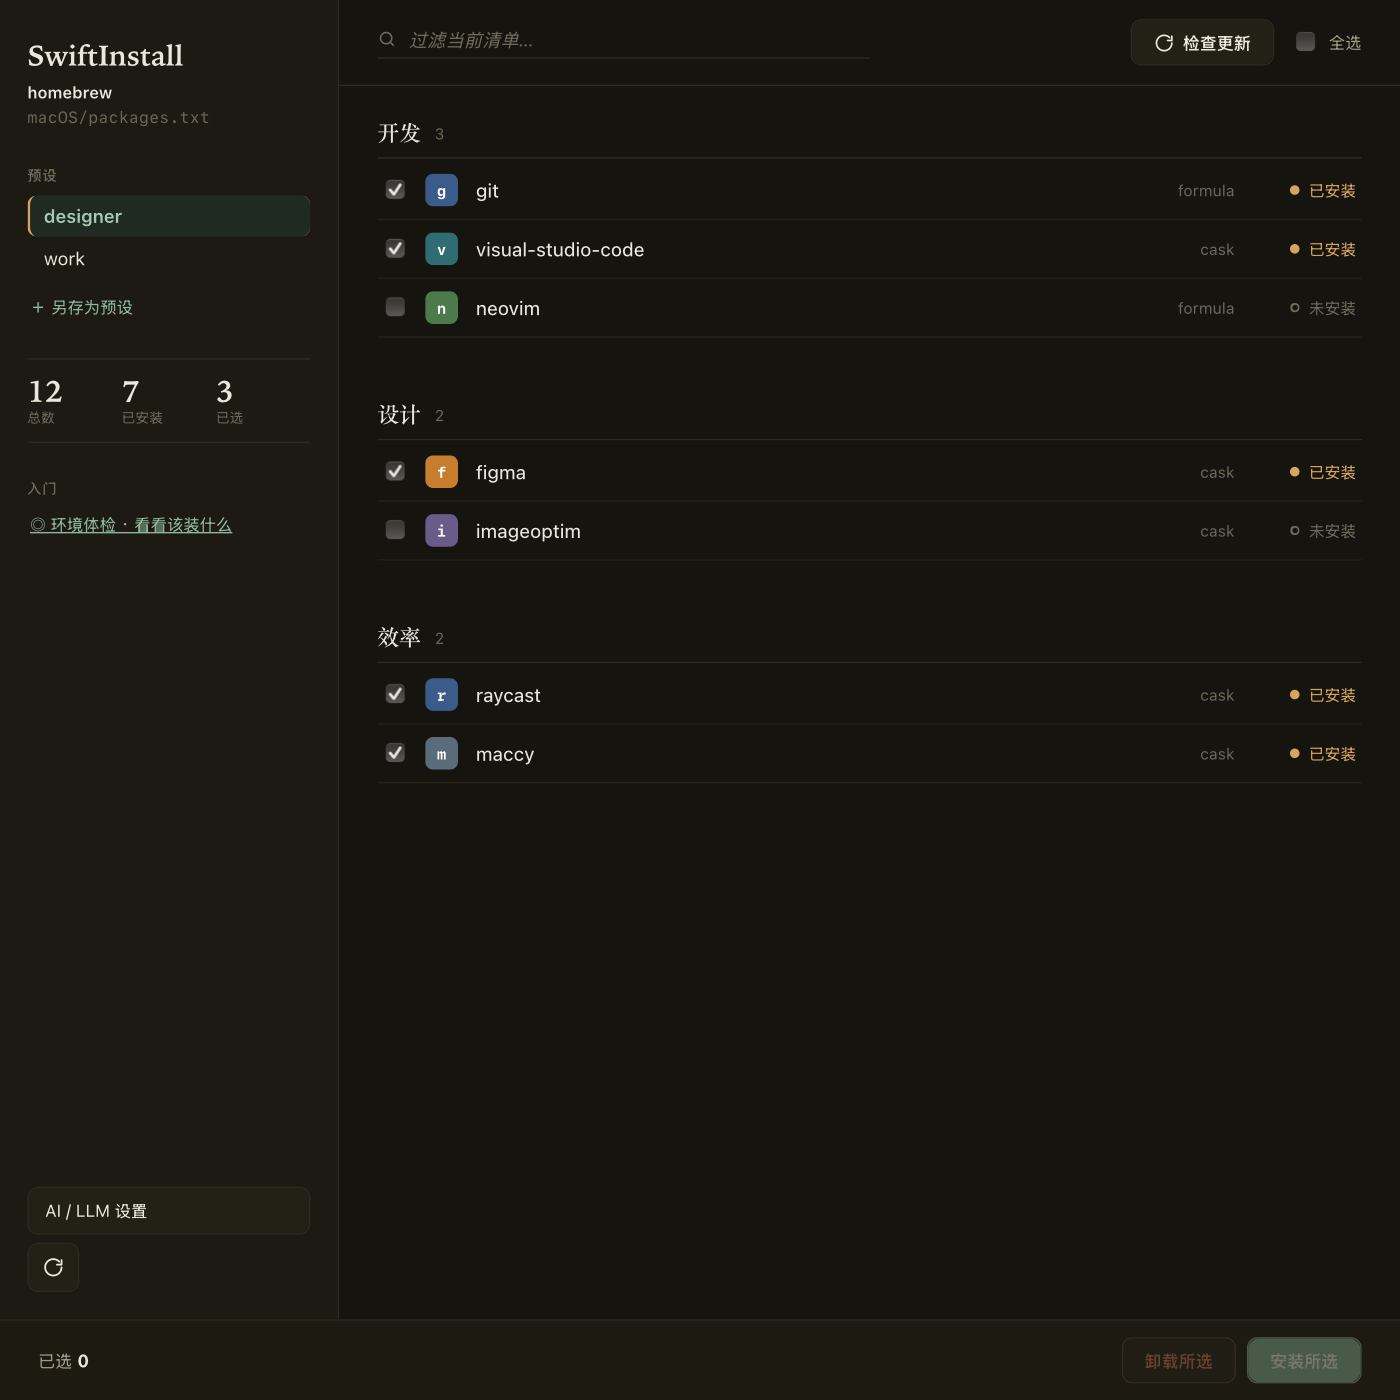
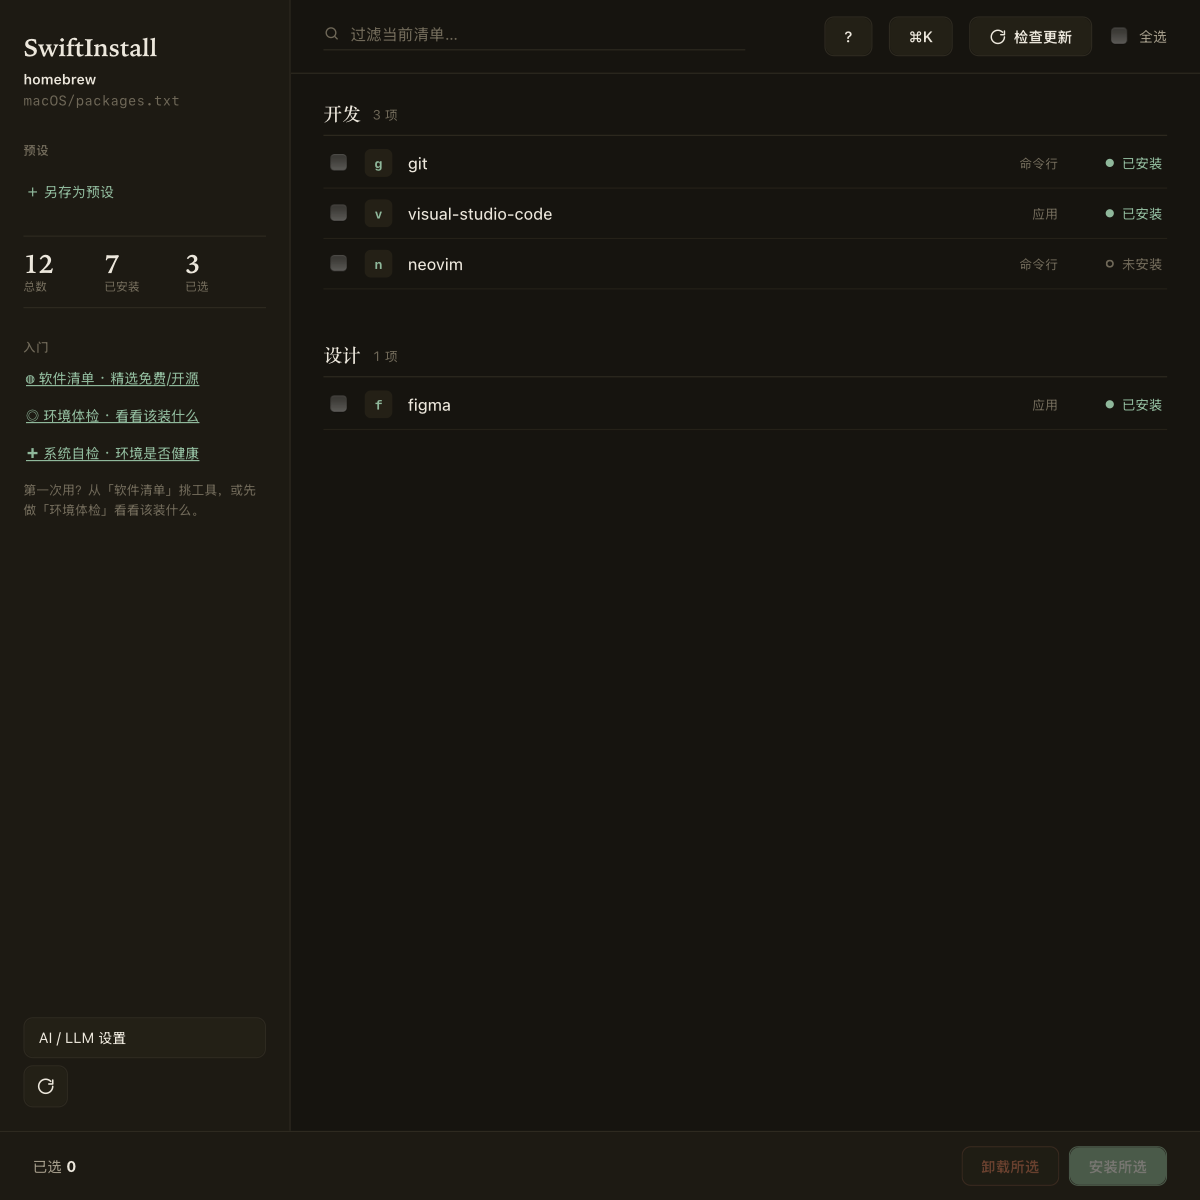
feat(ux): 扁平化去毛玻璃/单一强调色 + 文案本地化 + 去斜体/大写 + kind 中文化（UX 第1批）

diff --git a/internal/gui/assets/styles.css b/internal/gui/assets/styles.css
@@ -133,9 +133,7 @@ html, body {
 .bar {
   position: sticky; top: 0; z-index: 10;
   display: flex; align-items: center; justify-content: space-between; gap: 14px;
-  padding: 14px 28px; background: color-mix(in srgb, var(--paper) 88%, transparent);
-  backdrop-filter: blur(12px); border-bottom: 1px solid var(--line);
-  box-shadow: inset 0 1px 0 rgba(255,255,255,.55);
+  padding: 14px 28px; background: var(--paper); border-bottom: 1px solid var(--line);
 }
 .filter {
   display: flex; align-items: center; gap: 8px; color: var(--faint);
@@ -146,7 +144,7 @@ html, body {
   border: 0; outline: 0; background: transparent; color: var(--ink);
   font-size: 14px; width: 100%; font-family: var(--sans);
 }
-.filter input::placeholder { color: var(--faint); font-style: italic; }
+.filter input::placeholder { color: var(--faint); }
 
 .selectall { display: inline-flex; align-items: center; gap: 7px; font-size: 12.5px; color: var(--muted); cursor: pointer; }
 .selectall input { accent-color: var(--moss); width: 15px; height: 15px; }
@@ -208,14 +206,14 @@ html, body {
 .pkg-opt { font-size: 10.5px; color: var(--faint); border: 1px solid var(--line); border-radius: 5px; padding: 0 5px; }
 
 .kind { font-size: 11.5px; color: var(--faint); min-width: 52px; text-align: right; }
-.kind.cask { color: var(--copper); }
+.kind.cask { color: var(--muted); }
 .kind.src-npm { color: var(--npm-red); }      /* npm red */
 .kind.src-github { color: var(--moss); }
 
 .status { display: inline-flex; align-items: center; gap: 7px; font-size: 12px; min-width: 76px; justify-content: flex-end; }
 .status .led { width: 7px; height: 7px; border-radius: 50%; background: var(--faint); flex: none; }
-.status.installed { color: var(--copper); }
-.status.installed .led { background: var(--copper); }
+.status.installed { color: var(--moss); }
+.status.installed .led { background: var(--moss); }
 .status.missing { color: var(--faint); }
 .status.missing .led { background: transparent; box-shadow: inset 0 0 0 1.5px var(--faint); }
 .status.unknown .led { animation: pulse 1.1s ease-in-out infinite; }
@@ -228,8 +226,7 @@ html, body {
   grid-column: 1 / -1;
   display: flex; align-items: center; justify-content: space-between;
   padding: 12px 28px; border-top: 1px solid var(--line);
-  background: color-mix(in srgb, var(--panel) 92%, transparent);
-  backdrop-filter: blur(12px);
+  background: var(--panel);
 }
 .selinfo { font-size: 13px; color: var(--muted); }
 .selinfo b { color: var(--ink); font-variant-numeric: tabular-nums; }
@@ -253,7 +250,7 @@ html, body {
 /* ---------- overlays ---------- */
 .overlay {
   position: fixed; inset: 0; z-index: 50; display: grid; place-items: center;
-  background: color-mix(in srgb, var(--scrim) 45%, transparent); backdrop-filter: blur(5px);
+  background: color-mix(in srgb, var(--scrim) 45%, transparent);
   animation: fade .16s ease both;
 }
 @keyframes fade { from { opacity: 0; } to { opacity: 1; } }
@@ -377,7 +374,7 @@ html, body {
 
 /* ---------- command palette (⌘K) ---------- */
 .cmdk{position:fixed;inset:0;z-index:200;display:grid;place-items:start center;padding-top:14vh;
-  background:color-mix(in srgb,var(--scrim) 42%,transparent);backdrop-filter:blur(6px)}
+  background:color-mix(in srgb,var(--scrim) 42%,transparent)}
 .cmdk[hidden]{display:none}
 .cmdk-box{width:min(560px,92vw);background:var(--panel);border:1px solid var(--line);border-radius:14px;
   box-shadow:0 24px 70px rgba(0,0,0,.35);overflow:hidden}
@@ -411,3 +408,5 @@ html, body {
   border: 1px solid var(--line); border-bottom-width: 2px; border-radius: 6px; padding: 2px 7px; background: var(--panel-2); }
 .kbd-list span { margin-left: 4px; }
 .empty-sub { font-size: 12.5px; color: var(--muted); margin: 6px auto 0; max-width: 420px; line-height: 1.6; }
+/* one-accent: neutralize per-package icon tiles to warm neutral + accent */
+.pkg-icon.mono { background: var(--panel-2) !important; color: var(--moss) !important; }

diff --git a/internal/gui/assets/audit.html b/internal/gui/assets/audit.html
@@ -31,7 +31,7 @@
   .lock{display:inline-flex;align-items:center;gap:7px;color:var(--muted);font-size:12.5px}
   .lock i{width:7px;height:7px;border-radius:50%;background:var(--green);display:inline-block}
 
-  .kicker{font-size:12px;letter-spacing:2.5px;text-transform:uppercase;color:var(--green);
+  .kicker{font-size:12px;letter-spacing:2.5px;color:var(--green);
     font-weight:600;margin:54px 0 14px}
   h1{font-family:var(--serif);font-size:44px;line-height:1.12;font-weight:600;letter-spacing:-.5px}
   .lede{font-size:15.5px;color:var(--muted);max-width:560px;margin-top:16px}
@@ -104,7 +104,7 @@
   @media(max-width:720px){.grid{grid-template-columns:1fr}.stats{grid-template-columns:1fr 1fr}
     .rep{flex-direction:column;gap:6px}.rep .flow{min-width:0}}
   /* migration guide drawer */
-  .scrim{position:fixed;inset:0;background:rgba(28,27,23,.30);opacity:0;pointer-events:none;transition:.3s;z-index:40;backdrop-filter:blur(1px)}
+  .scrim{position:fixed;inset:0;background:rgba(28,27,23,.30);opacity:0;pointer-events:none;transition:.3s;z-index:40}
   .scrim.on{opacity:1;pointer-events:auto}
   .gdrawer{position:fixed;top:0;right:0;bottom:0;width:min(450px,94%);background:var(--paper);
     border-left:1px solid var(--line);box-shadow:-20px 0 50px rgba(28,27,23,.16);

diff --git a/internal/gui/assets/cmdk.js b/internal/gui/assets/cmdk.js
@@ -7,7 +7,7 @@
 
   var css = `
   .cmdk{position:fixed;inset:0;z-index:2000;display:grid;place-items:start center;padding-top:14vh;
-    background:color-mix(in srgb,#0b0b0a 42%,transparent);backdrop-filter:blur(6px)}
+    background:color-mix(in srgb,#0b0b0a 42%,transparent)}
   .cmdk[hidden]{display:none}
   .cmdk-box{width:min(560px,92vw);background:var(--card,var(--panel,#FBF8F1));
     border:1px solid var(--line,#DDD6C7);border-radius:14px;box-shadow:inset 0 1px 0 rgba(255,255,255,.55),0 24px 70px rgba(0,0,0,.35);overflow:hidden}

diff --git a/internal/gui/assets/app.js b/internal/gui/assets/app.js
@@ -229,7 +229,7 @@ function renderRow(p) {
     kind.textContent = p.source;
   } else {
     kind.className = "kind" + (p.kind === "cask" ? " cask" : "");
-    kind.textContent = p.kind || "auto";
+    kind.textContent = p.kind === "cask" ? "应用" : p.kind === "formula" ? "命令行" : "自动";
   }
 
   const st = statusOf(p.id);

diff --git a/internal/ui/terminal.go b/internal/ui/terminal.go
@@ -32,7 +32,7 @@ func NewTerminalRenderer(color bool) *TerminalRenderer {
 }
 
 func (t *TerminalRenderer) Header(total int, source string, action string) {
-	fmt.Fprintf(os.Stderr, "\n%s %s %d packages from %s%s\n\n",
+	fmt.Fprintf(os.Stderr, "\n%s %s %d 个软件（清单：%s）%s\n\n",
 		t.style(colorBold), action, total, source, t.style(colorReset))
 }
 
@@ -73,26 +73,26 @@ func (t *TerminalRenderer) Summary(summary *engine.Summary) {
 	// Build a compact summary line
 	parts := []string{}
 	if summary.Succeeded > 0 {
-		parts = append(parts, fmt.Sprintf("%s%s%d succeeded%s",
+		parts = append(parts, fmt.Sprintf("%s%s%d 成功%s",
 			t.style(colorGreen), t.style(colorBold), summary.Succeeded, t.style(colorReset)))
 	}
 	if summary.Skipped > 0 {
-		parts = append(parts, fmt.Sprintf("%s%d skipped%s",
+		parts = append(parts, fmt.Sprintf("%s%d 跳过%s",
 			t.style(colorYellow), summary.Skipped, t.style(colorReset)))
 	}
 	if summary.Failed > 0 {
-		parts = append(parts, fmt.Sprintf("%s%s%d failed%s",
+		parts = append(parts, fmt.Sprintf("%s%s%d 失败%s",
 			t.style(colorRed), t.style(colorBold), summary.Failed, t.style(colorReset)))
 	}
 
-	fmt.Fprintf(os.Stderr, "  %s%sTotal: %d%s  |  %s  %s(%s)%s\n",
+	fmt.Fprintf(os.Stderr, "  %s%s共 %d 项%s  |  %s  %s(%s)%s\n",
 		t.style(colorBold), t.style(colorCyan), summary.Total, t.style(colorReset),
 		strings.Join(parts, "  "),
 		t.style(colorDim), formatDuration(summary.Duration), t.style(colorReset))
 
 	// List failures at the end for easy identification
 	if summary.Failed > 0 {
-		fmt.Fprintf(os.Stderr, "\n  %sFailed packages:%s\n", t.style(colorRed), t.style(colorReset))
+		fmt.Fprintf(os.Stderr, "\n  %s失败的软件：%s\n", t.style(colorRed), t.style(colorReset))
 		for _, r := range summary.Results {
 			if r.Status == engine.StatusFailed {
 				errMsg := r.Error

diff --git a/internal/cli/status.go b/internal/cli/status.go
@@ -58,7 +58,7 @@ func runStatus(cmd *cobra.Command, args []string) error {
 	}
 
 	if !silent && format != "json" {
-		fmt.Fprintf(os.Stderr, "\nChecking status of %d packages from %s\n\n", len(m.Packages), manifestPath)
+		fmt.Fprintf(os.Stderr, "\n正在检查 %d 个软件的安装状态（清单：%s）\n\n", len(m.Packages), manifestPath)
 	}
 
 	var results []pkgStatus
@@ -147,7 +147,7 @@ func runStatus(cmd *cobra.Command, args []string) error {
 			red = ""
 			reset = ""
 		}
-		fmt.Fprintf(os.Stderr, "\n  %s%d installed%s, %s%d missing%s\n\n",
+		fmt.Fprintf(os.Stderr, "\n  %s已安装 %d%s，%s未安装 %d%s\n\n",
 			green, installed, reset, red, missing, reset)
 	}
 

diff --git a/internal/cli/install.go b/internal/cli/install.go
@@ -103,7 +103,7 @@ func runInstall(cmd *cobra.Command, args []string) error {
 
 	// Run
 	eng := newEngine(be, opts)
-	renderer.Header(len(m.Packages), manifestPath, "Installing")
+	renderer.Header(len(m.Packages), manifestPath, "正在安装")
 
 	eng.OnProgress(func(index int, total int, result engine.Result) {
 		renderer.Progress(index, total, result.Package, result)

diff --git a/internal/cli/uninstall.go b/internal/cli/uninstall.go
@@ -72,7 +72,7 @@ func runUninstall(cmd *cobra.Command, args []string) error {
 	}
 
 	eng := newEngine(be, opts)
-	renderer.Header(len(m.Packages), manifestPath, "Uninstalling")
+	renderer.Header(len(m.Packages), manifestPath, "正在卸载")
 
 	eng.OnProgress(func(index int, total int, result engine.Result) {
 		renderer.Progress(index, total, result.Package, result)

diff --git a/internal/cli/list.go b/internal/cli/list.go
@@ -112,7 +112,7 @@ func listTable(packages []manifest.Package, source string, color bool) error {
 		fmt.Fprintln(os.Stderr)
 	}
 
-	fmt.Fprintf(os.Stderr, "  Total: %d packages\n\n", len(packages))
+	fmt.Fprintf(os.Stderr, "  共 %d 个软件\n\n", len(packages))
 	return nil
 }
 

diff --git a/docs/UX-AUDIT-v0.5.md b/docs/UX-AUDIT-v0.5.md
@@ -1,0 +1,46 @@
+# UX / 文案 / 视觉审计（v0.5，对照 11 条要求）
+
+> 方法：以"不懂技术的小白"视角走主链路（首次打开 → 浏览/挑清单 → 环境体检 → 勾选/安装 → 逐条决策 → 分享/自检），逐条对照 11 条要求，记录卡点、修饰词、待办。
+> 状态：本轮已落地标注「✅ 已修」；其余进入「计划」。
+
+## 主链路卡点（规则 1）
+- ✅ 空清单时之前只说"没有匹配的软件"→ 现区分「清单为空（引导去软件清单 + CTA）」与「过滤无匹配」。
+- ✅ 列表里 `formula/cask/auto` 是 Homebrew 行话 → 主界面改显示 **命令行 / 应用 / 自动**。
+- 待办：`homebrew / packages.txt` 等仍偏技术，考虑加一句轻提示（非小白可见时再展开）。
+- 待办：体检页若干术语（可核验维度/授权/可导出性）需更白；已在 legend 解释，可再精简。
+
+## 文案本地化与措辞（规则 2 / 3）
+- ✅ CLI 英文残留中文化：`Checking status of N packages…` → 「正在检查 N 个软件的安装状态（清单：…）」；`installed/missing` → 「已安装/未安装」；`Total: … / succeeded / skipped / failed / packages / Installing / Uninstalling` → 中文；`list` 的 `Total: N packages` → 「共 N 个软件」。
+- 待办：逐页通读，去掉"讲一遍 UI 已经表达清楚"的重复说明（规则 3）。
+
+## 数字表达（规则 4）
+- 计数均带单位（份/项/个/款）；状态点旁有"已安装/未安装"文字（不只靠颜色）。`tabular-nums` 已用于数字列。
+- 待办：价格/体积等（如未来加）按本地最佳实践（如 `MB/GB`、人民币 `¥`）统一；导出/统计做校验。
+
+## 确认与危险操作（规则 5）
+- 仅"删除预设"有二次确认（不可逆，合理）；安装/勾选等确定操作**不反复弹框**。危险按钮用红描边而非大片红底。
+- 待办：复核是否有可去掉的冗余确认。
+
+## 视觉：一个强调色 / 暖灰 / 避免陶土橙与老蓝（规则 6 / 9）
+- ✅ 移除毛玻璃与顶栏高光（改**纯扁平**：实底 + 发丝线）；去除 `.overlay`/scrim/`⌘K` 的 `backdrop-filter` 模糊。
+- ✅ "已安装"状态点由陶土橙 → **强调绿**；`cask` 标签去掉橙色改暖灰。
+- ✅ 图标 tile 去掉每包多彩底色 → **统一暖灰底 + 绿色字母**（全页一个强调色）。
+- 计划（规则 11）：完整色板（含 `--copper` 语义色）重定，产出 **3 套方案 + 前后对比 PDF** 供你挑选；灰阶全部转暖灰。
+
+## 字号 / 节奏 / 无障碍（规则 7）
+- 现状：单页字号种类偏多（styles 20、audit 15、toollists 12…），超出"≤4 种"。
+- 计划：建立 4 级字号 token（如 12.5 / 14 / 17 / 22），逐页收敛；统一 1.6 行高、段距；保证对比度 ≥ 4.5:1。
+
+## 斜体 / 大写 / 等宽 / 中间点 / 动词（规则 8）
+- ✅ 去掉过滤框占位符**斜体**；去掉 kicker/section 标题的**全大写**（`text-transform:uppercase`）。
+- 待办：42 处中间点 `·` 逐屏精简（优先可见标题/说明）；统一动作动词（如"安装/卸载/查看/导出"），避免营销词；等宽仅保留给 id/路径/指标。
+
+## 一致性 / 嵌套圆角 / 卡片（规则 9）
+- 已统一按钮/输入圆角与描边；默认扁平、阴影仅浮层（`--shadow` 仅用于弹窗/命令面板）。
+- 待办：核对嵌套圆角"内 = 外 − 间距"；避免卡片套卡片。
+
+## 多语言 / 长文案 / 多尺寸（规则 10）
+- 待办：切到英文/长语言时优先"最长文案"布局，允许改文案但不缩字号不截断；在窄/中/宽三档宽度回归。
+
+## 本轮改动文件
+`internal/gui/assets/styles.css`、`app.js`、`audit.html`、`cmdk.js`、`internal/ui/terminal.go`、`internal/cli/status.go`、`install.go`、`uninstall.go`、`list.go`；截图 `docs/screenshots/gui-main.png`（扁平化 + 单一强调色）。

diff --git a/CHANGELOG.md b/CHANGELOG.md
@@ -4,6 +4,8 @@
 
 ## [Unreleased]
 
+- **UX/文案/视觉第一批（对照 11 条要求）**：去毛玻璃与顶栏高光（改扁平化）；已安装点/图标 tile 统一为单一强调绿；CLI 英文残留中文化（Checking status/installed/Total/Installing…）；去占位符斜体与 kicker 全大写；列表 kind 显示「命令行/应用/自动」；新增 `docs/UX-AUDIT-v0.5.md`。
+
 - **空状态引导**：主界面区分「清单为空」（引导去软件清单挑选）与「过滤无匹配」，附 CTA 按钮，新手更易上手。
 
 - **LLM 接口回归测试**：覆盖 `/api/llm` 保存后 GET 返回脱敏 key（绝不回显明文）、字段往返、非法 JSON→400。
